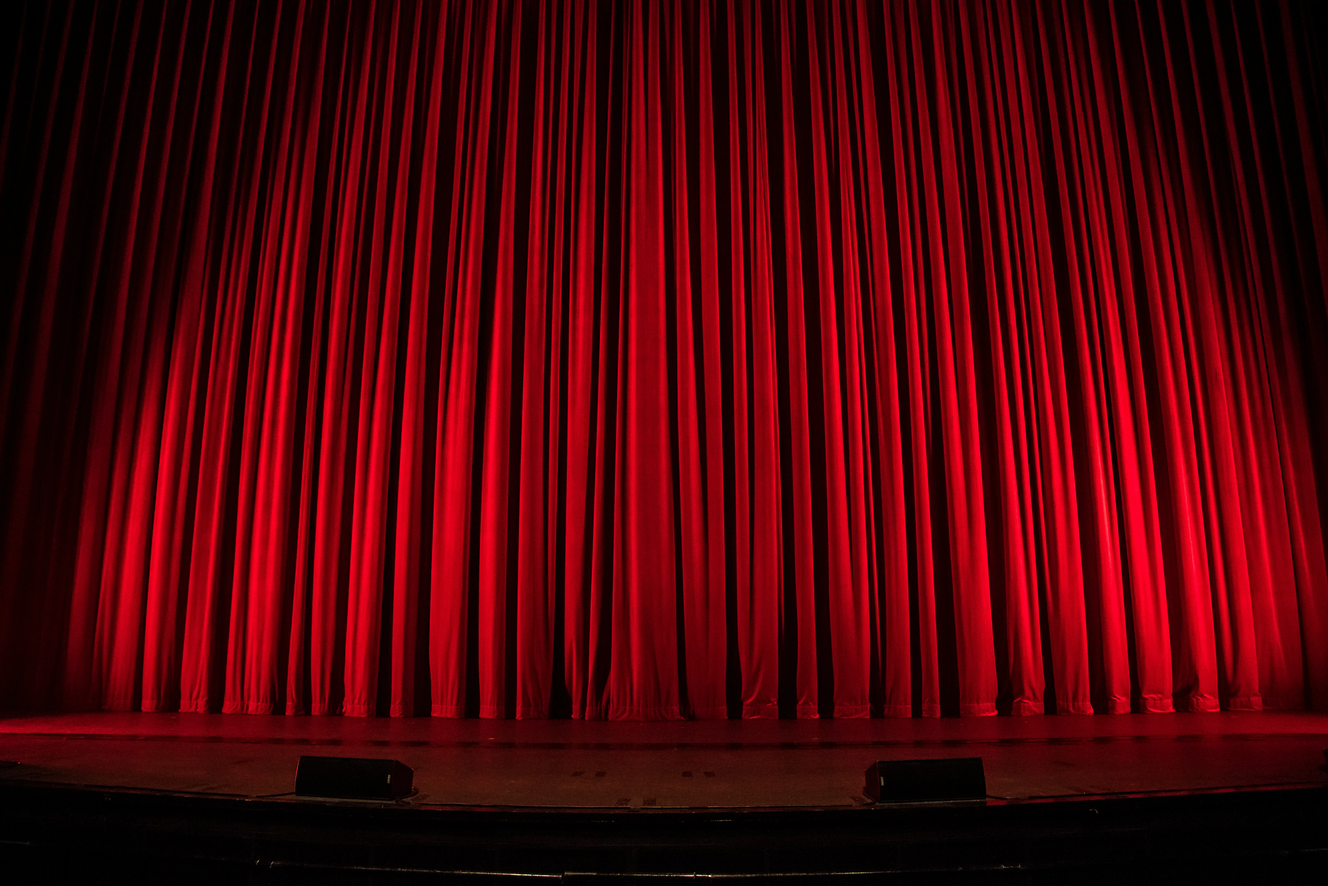
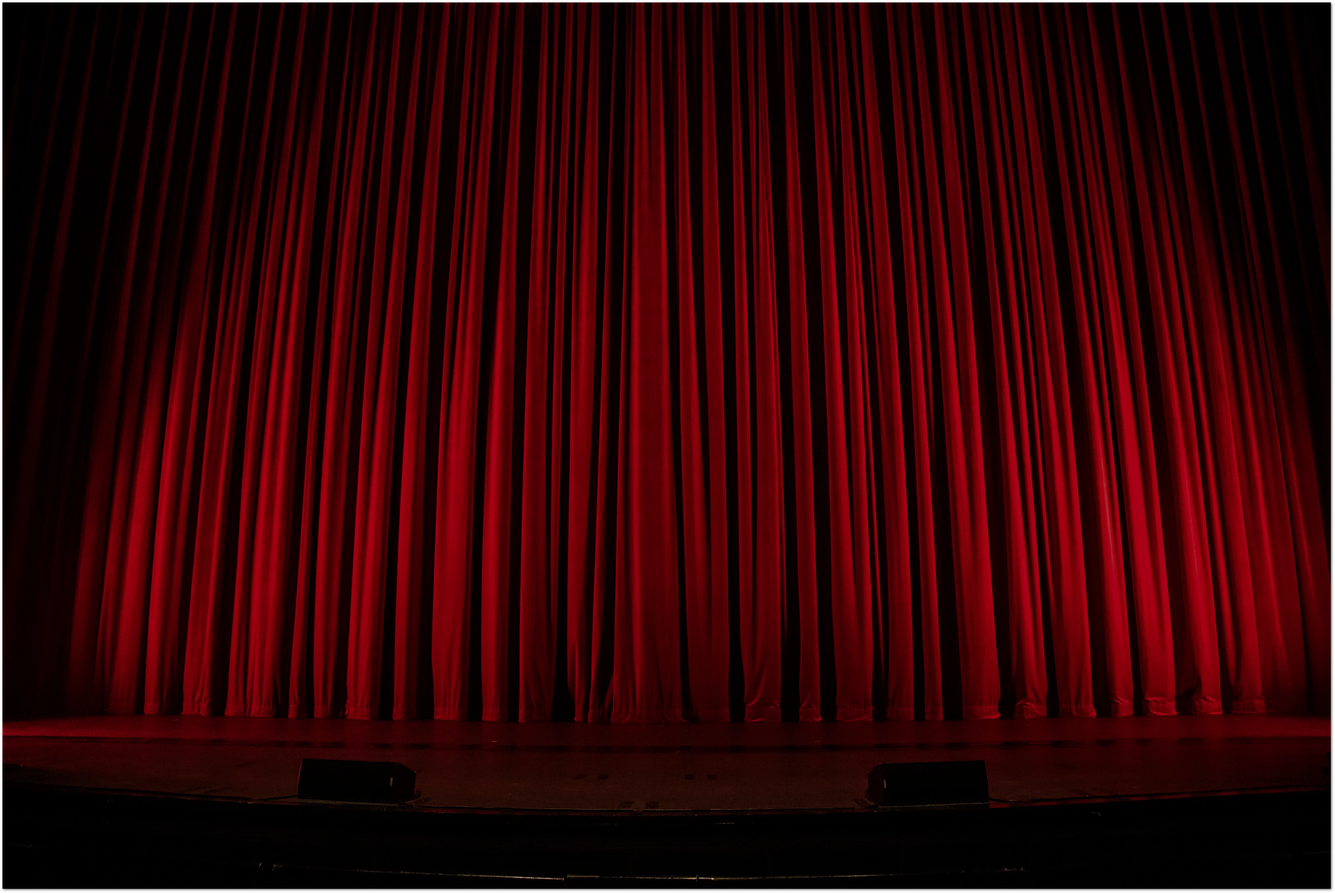
Updates - Changed header design - Added city prop to Booking - Updated Hero to display incoming show info - Moved Booking type to its own type file - Added date format helper toReadableDate() - Darken hero bg image

diff --git a/components/landing/hero.tsx b/components/landing/hero.tsx
@@ -3,54 +3,83 @@ import Link from "next/link"
 import { FaPhoneAlt } from "react-icons/fa"
 import { MdEmail } from "react-icons/md"
 import Copy from "../ui/copy"
+import { Booking } from "@/lib/types/Booking"
+import { toReadableDate } from "@/lib/utils"
 
-export default function Hero() {
+export default function Hero({ bookings }: { bookings: Booking[] }) {
+  const now = new Date()
+
+  const incommingShows = bookings.filter((booking) => {
+    return booking.date > now
+  })
+
+  if (!incommingShows || !incommingShows.length) {
+    return (
+      <div className="p-4 flex items-center justify-center flex-col gap-1 w-auto min-h-[100vh] bg-hero-image bg-cover bg-center">
+        <h2 className="text-center text-2xl md:text-3xl lg:text-[2rem] drop-shadow-3xl leading-[1.2] max-w-[450px]">
+          La troupe de comédie musicale des Chups vous retrouve à la rentrée
+          pour de nouvelles aventures !
+        </h2>
+        <HeroContact />
+      </div>
+    )
+  }
+
+  const nextShow = incommingShows[0]
+  const { title, date, location, time, city } = nextShow
+
   return (
     <div className="p-4 flex items-center justify-center flex-col gap-1 w-auto min-h-[100vh] bg-hero-image bg-cover bg-center">
-      <p className="text-center text-lg md:text-xl lg:text-[2rem] drop-shadow-3xl leading-[1.2]">
+      <p className="text-center text-lg md:text-xl lg:text-[2.5rem] drop-shadow-3xl leading-[1.2]">
         Les Chup's vous présentent leur nouveau spectacle musical
       </p>
       <h2
         className={`${playfairDisplay.className} uppercase text-[4rem] lg:text-[6rem] text-center leading-[0.9] my-6 drop-shadow-3xl animate-fade-in-zoom opacity-0`}
       >
-        Mystère au cabaret
+        {title}
       </h2>
       <p className="text-center md:text-xl lg:text-[2rem] lg:mb-4 drop-shadow-3xl">
-        Vendredi 24 et Samedi 25 Mai 2024 à 20h30
+        {toReadableDate(date)} à {time}
       </p>
       <div className="flex flex-col lg:gap-2">
         <h3
           className={`${playfairDisplay.className} text-center text-bold uppercase text-xl md:text-2xl lg:text-[2.5rem] drop-shadow-3xl`}
         >
-          Espace Culturel Lucien Jean
+          {location}
         </h3>
         <h3
           className={`${playfairDisplay.className} uppercase text-center text-2xl md:text-3xl lg:text-[2.6rem] drop-shadow-3xl`}
         >
-          Marly-la-ville
+          {city}
         </h3>
       </div>
-      <div className="flex flex-col mt-2 lg:mt-8 lg:gap-4">
-        <div className="flex items-center justify-center gap-2">
-          <Link
-            href="tel:0611846005"
-            className="flex items-center gap-2 text-bold text-center md:text-lg lg:text-[2rem] drop-shadow-3xl"
-          >
-            <FaPhoneAlt />
-            <span>06.11.84.60.05</span>
-          </Link>
-          <Copy contentToCopy="0611846005" />
-        </div>
-        <div className="flex items-center justify-center gap-2">
-          <Link
-            href="mailto:leschups@outlook.fr"
-            className="flex items-center justify-center gap-2 text-bold text-center md:text-lg lg:text-[2rem] drop-shadow-3xl"
-          >
-            <MdEmail />
-            <span>leschups@outlook.fr</span>
-          </Link>
-          <Copy contentToCopy="leschups@outlook.fr" />
-        </div>
+      <HeroContact />
+    </div>
+  )
+}
+
+function HeroContact() {
+  return (
+    <div className="flex flex-col mt-2 lg:mt-8 lg:gap-4">
+      <div className="flex items-center justify-center gap-2">
+        <Link
+          href="tel:0611846005"
+          className="flex items-center gap-2 text-bold text-center md:text-lg lg:text-[2rem] drop-shadow-3xl"
+        >
+          <FaPhoneAlt />
+          <span>06.11.84.60.05</span>
+        </Link>
+        <Copy contentToCopy="0611846005" />
+      </div>
+      <div className="flex items-center justify-center gap-2">
+        <Link
+          href="mailto:leschups@outlook.fr"
+          className="flex items-center justify-center gap-2 text-bold text-center md:text-lg lg:text-[2rem] drop-shadow-3xl"
+        >
+          <MdEmail />
+          <span>leschups@outlook.fr</span>
+        </Link>
+        <Copy contentToCopy="leschups@outlook.fr" />
       </div>
     </div>
   )

diff --git a/components/booking/booking-modal.tsx b/components/booking/booking-modal.tsx
@@ -7,7 +7,7 @@ import {
   DialogTrigger,
 } from "@/components/ui/dialog"
 import { Button } from "../ui/button"
-import { Booking } from "@/lib/definitions"
+import { Booking } from "@/lib/types/Booking"
 import BookingForm from "./booking-form"
 import BookingPoster from "./booking-poster"
 import BookingDate from "./booking-date"
@@ -23,7 +23,8 @@ export default function BookingModal({ booking }: BookingModalProps) {
   const [isSubmitting, setIsSubmitting] = useState<boolean>(false)
   const [isSuccess, setIsSuccess] = useState<boolean>(false)
 
-  const { location, title, image, date, time, adultPrice, childPrice } = booking
+  const { location, city, title, image, date, time, adultPrice, childPrice } =
+    booking
 
   const DialogContentElement = () => {
     if (isSubmitting) {
@@ -59,6 +60,7 @@ export default function BookingModal({ booking }: BookingModalProps) {
               <span className="text-xl font-bold">{title}</span>
               <BookingDate date={date} time={time} />
               <p className="text-sm">{location}</p>
+              <p className="text-sm">{city}</p>
               <BookingPricing adultPrice={adultPrice} childPrice={childPrice} />
             </div>
           </div>

diff --git a/components/booking/booking-card.tsx b/components/booking/booking-card.tsx
@@ -1,5 +1,5 @@
 import { Card } from "@/components/ui/card"
-import { Booking } from "@/lib/definitions"
+import { Booking } from "@/lib/types/Booking"
 import BookingModal from "./booking-modal"
 import BookingPoster from "./booking-poster"
 import BookingDate from "./booking-date"
@@ -10,7 +10,7 @@ interface BookingCardProps {
 }
 
 export default function BookingCard({ booking }: BookingCardProps) {
-  const { date, location, locationUrl, time, title, image } = booking
+  const { date, location, city, locationUrl, time, title, image } = booking
 
   return (
     <Card className="p-2 md:p-4 bg-slate-900 w-full max-w-[360px] md:max-w-[500px]">
@@ -21,6 +21,7 @@ export default function BookingCard({ booking }: BookingCardProps) {
             <span className="text-xl md:text-[1.8rem] font-bold">{title}</span>
             <BookingDate date={date} time={time} />
             <p className="text-sm md:text-xl">{location}</p>
+            <p className="text-sm md:text-xl">à {city}</p>
           </div>
           <div className="flex gap-2 justify-end">
             <BookingAccess locationurl={locationUrl} />

diff --git a/app/page.tsx b/app/page.tsx
@@ -1,15 +1,18 @@
-import Hero from "../components/landing/hero"
 import { BookButton } from "@/components/buttons"
+import Hero from "../components/landing/hero"
 import AgendaSection from "@/components/landing/agenda-section"
 import AboutSection from "@/components/landing/about-section"
+import { fetchBookings } from "@/lib/data"
 
-export default function Home() {
+export default async function Home() {
+  const bookings = await fetchBookings()
+
   return (
-    <div>
-      <Hero />
-      <AgendaSection />
+    <>
+      <Hero bookings={bookings}  />
+      <AgendaSection bookings={bookings} />
       <AboutSection />
       <BookButton />
-    </div>
+    </>
   )
 }

diff --git a/components/header-shell.tsx b/components/header-shell.tsx
@@ -22,9 +22,10 @@ export default function HeaderShell({
   return (
     <div
       className={clsx(
-        "p-3 flex items-center justify-between gap-2 w-full fixed bg-[#020817] z-10 shadow-2xl transition-all duration-300",
+        "p-3 flex items-center justify-between gap-2 w-full fixed bg-white bg-opacity-[0.02] shadow-sm backdrop-blur-sm  z-10 shadow-2xl transition-all duration-300",
         {
-          "bg-opacity-10": !isHeaderScrolled,
+          "bg-transparent shadow-none backdrop-blur-none bg-opacity-[0]":
+            !isHeaderScrolled,
         }
       )}
     >

diff --git a/components/landing/agenda-section.tsx b/components/landing/agenda-section.tsx
@@ -1,11 +1,9 @@
 import { playfairDisplay } from "@/styles/fonts"
 import BookingList from "../booking/booking-list"
-import { fetchBookings } from "@/lib/data"
 import Link from "next/link"
+import { Booking } from "@/lib/types/Booking"
 
-export default async function AgendaSection() {
-  const bookings = await fetchBookings()
-
+export default function AgendaSection({ bookings }: { bookings: Booking[] }) {
   return (
     <section className="py-20 px-4 flex justify-center items-center flex-col gap-2 md:gap-4 w-auto min-h-[100vh]">
       <h2

diff --git a/lib/utils.ts b/lib/utils.ts
@@ -4,3 +4,15 @@ import { twMerge } from "tailwind-merge"
 export function cn(...inputs: ClassValue[]) {
   return twMerge(clsx(inputs))
 }
+
+export function toReadableDate(date: Date): string {
+  const options: Intl.DateTimeFormatOptions = {
+    weekday: "long",
+    year: "numeric",
+    month: "long",
+    day: "numeric",
+  }
+
+  const formattedDate = date.toLocaleDateString("fr-FR", options)
+  return formattedDate.charAt(0).toUpperCase() + formattedDate.substring(1)
+}

diff --git a/components/booking/booking-form.tsx b/components/booking/booking-form.tsx
@@ -11,7 +11,7 @@ import {
 } from "@/components/ui/form"
 import { Input } from "@/components/ui/input"
 import { Button } from "../ui/button"
-import { Booking } from "@/lib/definitions"
+import { Booking } from "@/lib/types/Booking"
 import clsx from "clsx"
 
 const formSchema = z.object({

diff --git a/lib/definitions.ts b/lib/definitions.ts
@@ -1,15 +1,3 @@
-export type Booking = {
-  id: string
-  title: string
-  date: Date
-  time: string
-  image: string
-  adultPrice: number
-  childPrice: number
-  location: string
-  locationUrl: string
-}
-
 export type Show = {
   id: string
   description: string

diff --git a/lib/types/Booking.ts b/lib/types/Booking.ts
@@ -1,0 +1,12 @@
+export type Booking = {
+  id: string
+  title: string
+  date: Date
+  time: string
+  image: string
+  adultPrice: number
+  childPrice: number
+  location: string
+  city: string
+  locationUrl: string
+}

diff --git a/app/layout.tsx b/app/layout.tsx
@@ -10,7 +10,7 @@ export default function RootLayout({
   children: React.ReactNode
 }>) {
   return (
-    <html lang="en">
+    <html lang="fr">
       <head>
         <meta
           name="description"

diff --git a/components/booking/booking-list.tsx b/components/booking/booking-list.tsx
@@ -1,4 +1,4 @@
-import { Booking } from "@/lib/definitions"
+import { Booking } from "@/lib/types/Booking"
 import BookingCard from "./booking-card"
 
 interface BookingListProps {
